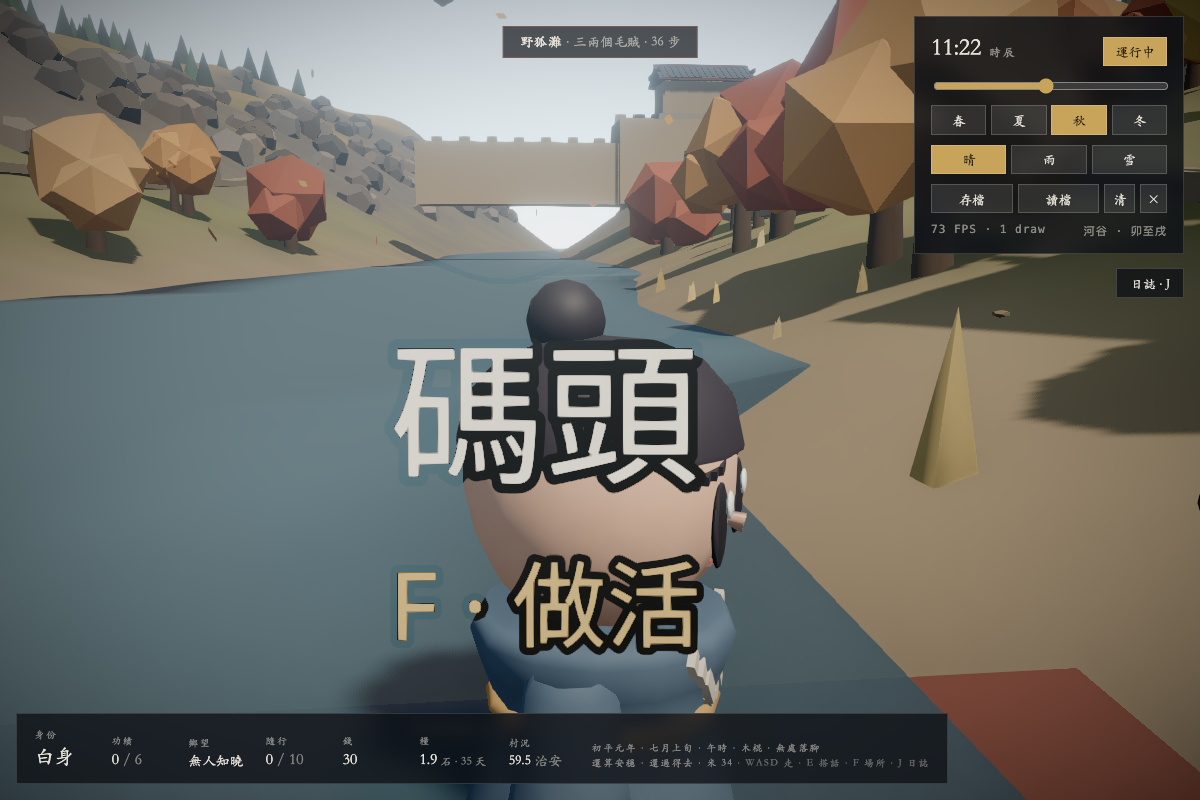
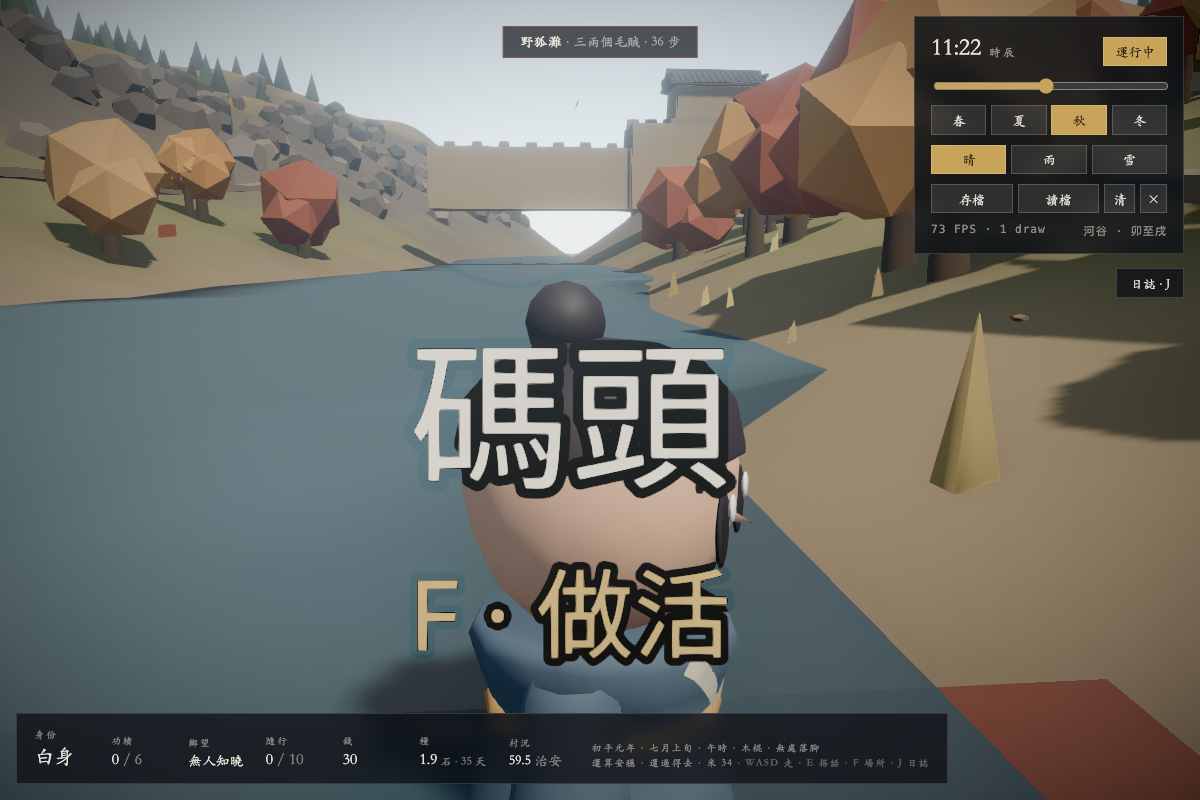
人物第三輪:鼻子原來是朝腦後長的;衣襟改成一條緞帶;手從袖口裡拿出來
- 鼻子:繞 X 轉 +θ 是把 +Y 扳向 +Z(往腦後),不是往前。第一版寫成 +0.42π,
  整個三稜錐戳進了顱骨裡,露在臉外的是它的底 —— 正面看只剩一小片淡色三角,
  我還以為是「鼻子做太小」。改成 -0.56π,尖端朝前略朝下。
  中間試過在兩側加「鼻翼」小球想補立體感,結果那兩顆球迎光比臉還亮,
  正面看是一個豬鼻子 —— 立體感要靠形狀給,不能靠往上貼深色小零件。

- 衣襟:上一版是把幾個方塊排成一條線,各自算自己的深度。方向對,可是方塊有角 ——
  排在 45 度的斜線上、每塊的 z 又不一樣,邊緣成了一排缺口,遠看是條鋸齒帶。
  改成一條真的緞帶:沿線取樣,每站算出表面上的點與法線,左右推半個帶寬,
  站與站之間補三角形。沒有角,就沒有缺口。

- 手:廣袖加了淺色的緣以後,原本那顆手球剛好被緣圈罩住,兩隻袖子成了兩根切平的
  管子,一雙手憑空不見了。往下往前挪出袖口,並且大一號。

- 眼睛收到 0.225R、眉毛細一號 —— 有了眉鼻口以後,眼睛不必再一個人撐整張臉。

自己搭的幾何要記得補 uv 和 setIndex:mergeGeometries 少一個屬性、
或者「有的有索引有的沒有」就回 null,而 bodyGeom 尾巴的 `!` 會把 null 用下去 ——
整個身子憑空消失,控制台只有一句 Cannot read properties of null。
這一條是 figure.test.ts 抓到的,建構和畫面都沒攔住。

順帶修一個既有的閃爍測試:「村子每旬推一次」三跑一炸。settleDay 每天擲一次天災,
而天災是按天扣收成的 —— 一旬之內湊巧來一場,「旬內不動」就不成立。
把那一發骰子按住,量的才是旬與天的差別本身。

diff --git a/src/world/figure.ts b/src/world/figure.ts
@@ -172,28 +172,61 @@ function robeR(y: number): number {
 }
 
 /**
- * 沿著袍子的正面鋪一條斜帶(衣襟)——<b>切成幾小段,一段一段找自己的深度</b>。
+ * 沿著袍子的正面鋪一條斜帶(衣襟)—— 一條<b>貼著胸口彎過去的緞帶</b>。
  *
- * 和眉毛是同一個道理:胸口是圓的,一整塊平板貼上去只有正中間貼得住。
- * 而且衣襟這一條又長又斜,平板做出來是「胸前貼了兩張白紙」,
- * 不是「兩片襟交在一起」。
+ * 前一版是把幾個方塊排成一條線,每塊各自算自己的深度。方向是對的,
+ * 可是方塊有角:排在 45 度的斜線上、每塊的 z 又不一樣,邊緣就成了一排缺口,
+ * 遠看是一條有鋸齒的帶子。改成一條真的帶子 —— 沿線取樣,每一站算出
+ * 表面上的點與法線,左右各推半個帶寬,站與站之間補三角形。沒有角,就沒有缺口。
  */
-function robeStrip(o: {
-  x0: number; y0: number; x1: number; y1: number; w: number; d: number;
+function robeRibbon(o: {
+  x0: number; y0: number; x1: number; y1: number; w: number; lift: number;
 }): THREE.BufferGeometry {
-  const SEG = 5;
-  const gs: THREE.BufferGeometry[] = [];
-  const ang = Math.atan2(o.y1 - o.y0, o.x1 - o.x0);
-  const len = Math.hypot(o.x1 - o.x0, o.y1 - o.y0);
-  for (let i = 0; i < SEG; i++) {
-    const t = (i + 0.5) / SEG;
+  const N = 10;
+  const pts: THREE.Vector3[] = [];
+  const nrm: THREE.Vector3[] = [];
+  for (let i = 0; i <= N; i++) {
+    const t = i / N;
     const x = o.x0 + (o.x1 - o.x0) * t;
     const y = o.y0 + (o.y1 - o.y0) * t;
     const r = robeR(y);
-    const z = -Math.sqrt(Math.max(0, r * r - x * x)) + o.d * 0.25;
-    gs.push(at(rot(slab((len / SEG) * 1.5, o.w, o.d), 0, 0, ang), x, y, z));
+    // 胸口是個旋轉面:這個高度的半徑是 r,橫向偏 x 的地方,表面在 z = -√(r²-x²)
+    const zz = Math.sqrt(Math.max(1e-4, r * r - x * x));
+    const n = new THREE.Vector3(x / r, 0, -zz / r).normalize();
+    pts.push(new THREE.Vector3(x, y, -zz).addScaledVector(n, o.lift));
+    nrm.push(n);
   }
-  return mergeGeometries(gs, false)!;
+  const pos: number[] = [];
+  const half = o.w / 2;
+  const edge = (i: number, sgn: number) => {
+    const fwd = (i < N ? pts[i + 1].clone().sub(pts[i]) : pts[i].clone().sub(pts[i - 1])).normalize();
+    const side = new THREE.Vector3().crossVectors(fwd, nrm[i]).normalize();
+    return pts[i].clone().addScaledVector(side, sgn * half);
+  };
+  const idx: number[] = [];
+  for (let i = 0; i <= N; i++) {
+    const a = edge(i, -1), b = edge(i, 1);
+    pos.push(a.x, a.y, a.z, b.x, b.y, b.z);
+    if (i < N) {
+      const k = i * 2;
+      idx.push(k, k + 1, k + 3, k, k + 3, k + 2);
+    }
+  }
+  const g = new THREE.BufferGeometry();
+  g.setAttribute('position', new THREE.BufferAttribute(new Float32Array(pos), 3));
+  /*
+   * uv 和<b>索引</b>都是必須的,即使一個像素的貼圖都不用。
+   *
+   * mergeGeometries 要求每一份幾何的屬性集完全一致 —— 少一個 uv、
+   * 或者「有的有索引有的沒有」,它都回 null,而 bodyGeom 尾巴上那個 `!`
+   * 會把 null 當幾何用下去。結果是<b>整個身子憑空消失</b>,
+   * 控制台只有一句「Cannot read properties of null」,
+   * 看不出跟一條衣襟有什麼關係。(這一條是 figure.test.ts 抓到的。)
+   */
+  g.setAttribute('uv', new THREE.BufferAttribute(new Float32Array((pos.length / 3) * 2), 2));
+  g.setIndex(idx);
+  g.computeVertexNormals();
+  return g;
 }
 
 export function bodyGeom(robe: THREE.Color) {
@@ -224,11 +257,11 @@ export function bodyGeom(robe: THREE.Color) {
   for (const side of [-1, 1]) {
     // 外襟(左)壓在內襟上,所以略寬、略往前 —— 壓著的那一片要看得出是壓著
     const outer = side < 0;
-    gs.push(tint(robeStrip({
+    gs.push(tint(robeRibbon({
       x0: side * robeR(yTop) * 0.66, y0: yTop,
-      x1: side * FIG_HR * 0.045, y1: yCross,
-      w: FIG_HR * (outer ? 0.15 : 0.13),
-      d: FIG_HR * (outer ? 0.075 : 0.055),
+      x1: side * FIG_HR * 0.05, y1: yCross,
+      w: FIG_HR * (outer ? 0.17 : 0.145),
+      lift: FIG_HR * (outer ? 0.030 : 0.012),
     }), edge));
   }
   // 領緣 —— 繞脖子一圈的那道深邊,把兩片衣襟收在一起
@@ -255,8 +288,13 @@ export function bodyGeom(robe: THREE.Color) {
     // 袖緣 —— 廣袖的口上一道深邊,手才不像從管子裡伸出來
     gs.push(tint(at(new THREE.TorusGeometry(FIG_HR * 0.47, FIG_HR * 0.05, 5, 10)
       .rotateX(Math.PI / 2), side * FIG_HR * 0.80, FIG_BODY_H * 0.34 + FIG_HR * 0.03, 0), edge));
-    gs.push(tint(at(new THREE.SphereGeometry(FIG_HR * 0.15, 7, 5),
-      side * FIG_HR * 0.92, FIG_BODY_H * 0.32, -FIG_HR * 0.12), SKIN));
+    /*
+     * 手要<b>露在袖口外面</b>。廣袖加了淺色的緣以後,原本那顆手球剛好被緣圈
+     * 罩住 —— 畫面上兩隻袖子是兩根切平的管子,一雙手憑空不見了。
+     * 往下、往前挪出袖口,並且大一號。
+     */
+    gs.push(tint(at(new THREE.SphereGeometry(FIG_HR * 0.17, 7, 6),
+      side * FIG_HR * 0.90, FIG_BODY_H * 0.26, -FIG_HR * 0.16, 1, 0.9, 1.05), SKIN));
   }
   gs.push(tint(at(new THREE.CylinderGeometry(FIG_HR * 0.32, FIG_HR * 0.32, FIG_HR * 0.40, 8),
     0, FIG_BODY_H * 0.99, 0), SKIN));
@@ -344,7 +382,7 @@ export function headGeom(style: HeadStyle = {}) {
    * 現在的規矩:先算這一件的半深,再讓它<b>只凸出 proud 那麼多</b>,
    * 其餘埋進臉裡。凸多少是一個看得懂的數字,而不是兩個座標湊出來的結果。
    */
-  const EYE_R = R * 0.25;
+  const EYE_R = R * 0.225;
   const EYE_FLAT = 0.16;                       // 眼球壓扁到只剩這麼厚
   const eyeHalf = EYE_R * EYE_FLAT;
   for (const side of [-1, 1]) {
@@ -358,7 +396,7 @@ export function headGeom(style: HeadStyle = {}) {
     // 眉 —— 外高內低斜著一撇。<b>切成三小段</b>,一段一段貼上去
     gs.push(tint(faceStrip({
       x: ex + side * R * 0.02, y: cy + R * (oldHair ? 0.25 : 0.22), py: 0.22,
-      w: R * (oldHair ? 0.38 : 0.32), h: R * 0.062, d: R * 0.045,
+      w: R * (oldHair ? 0.36 : 0.30), h: R * 0.052, d: R * 0.042,
       tilt: side * -0.22, R,
     }), oldHair ? new THREE.Color('#8e867c') : BROW));
     /*
@@ -377,9 +415,19 @@ export function headGeom(style: HeadStyle = {}) {
    * 第一版是薄板,而且埋進了臉裡:正面看是一條深色的直槓,像用筆畫上去的。
    * 鼻子是整張臉上<b>唯一凸出來</b>的東西,它一平,臉就是一張紙。
    */
-  const noseTip = R * 0.085;                    // 鼻尖凸出臉皮多少
-  gs.push(tint(at(rot(new THREE.ConeGeometry(R * 0.085, R * 0.30, 3), Math.PI * 0.42, 0, 0),
-    0, cy - R * 0.14, faceZ(-0.14, noseTip - R * 0.13)), SKIN));
+  /*
+   * 轉的<b>方向</b>要對:繞 X 轉 +θ 是把 +Y 扳向 +Z(往腦後),不是往前。
+   * 第一版寫成 +0.42π,整個錐體戳進了顱骨裡,露在臉外的是它的底 ——
+   * 正面看只剩一小片淡色的三角,還以為是「鼻子太小」。
+   * -0.56π 才是尖端朝前、略朝下,也就是一個鼻子該有的樣子。
+   *
+   * 一整塊膚色就夠 —— 三稜錐自己的三個面朝向不同,光一打上去
+   * 明暗自然分開。第一版還在鼻子兩側加了「鼻翼」的小球,結果那兩顆球
+   * 迎光比臉還亮,正面看是一個<b>豬鼻子</b>。這副臉的立體感要靠形狀給,
+   * 不能靠往上貼深色的小零件。
+   */
+  gs.push(tint(at(rot(new THREE.ConeGeometry(R * 0.115, R * 0.38, 3), -Math.PI * 0.56, 0, 0),
+    0, cy - R * 0.12, faceZ(-0.12, -R * 0.045)), SKIN));
   // 口 —— 一道短橫,細而不豔。不畫笑也不畫哭,留白比表情耐看
   gs.push(tint(faceStrip({
     x: 0, y: cy - R * 0.46, py: -0.46,

diff --git a/src/game/living.test.ts b/src/game/living.test.ts
@@ -1,4 +1,4 @@
-import { describe, it, expect, beforeEach } from 'vitest';
+import { describe, it, expect, beforeEach, vi } from 'vitest';
 import { partsFor, seasonOf, dateWord, numberWord, firstDayOf, DAYS_PER_YEAR } from './calendar';
 import { grainCost, grainSale, jobsToday, mouths, DAYS_PER_SHI, restQuality } from './economy';
 import { settleDay, grainDays } from './daily';
@@ -148,6 +148,15 @@ describe('過一天要結的帳', () => {
   });
 
   it('村子每旬推一次,不是每天 —— 按天推就是六天把一村收成歸零', () => {
+    /*
+     * 這一條要把骰子按住。
+     *
+     * settleDay 每天擲一次天災(旱澇蝗疫),而天災是<b>按天</b>扣收成的 ——
+     * 一旬之內湊巧來一場,「旬內不動」就不成立,測試三跑一炸。
+     * 炸的時候看起來像是「按旬推」壞了,其實是另一條規則插進來。
+     * 0.99 讓每一發都不中,量的才是旬與天的差別本身。
+     */
+    const dice = vi.spyOn(Math, 'random').mockReturnValue(0.99);
     const before = useVillage.getState().harvest;
     // 一旬之內不動
     for (let d = 1; d <= 9; d++) settleDay(d, 'winter');
@@ -155,6 +164,7 @@ describe('過一天要結的帳', () => {
     // 跨過旬首才結
     settleDay(10, 'winter');
     expect(useVillage.getState().harvest).toBeLessThan(before);
+    dice.mockRestore();
   });
 
   it('村子自己往前走 —— 這一段從前一次都沒跑過', () => {
